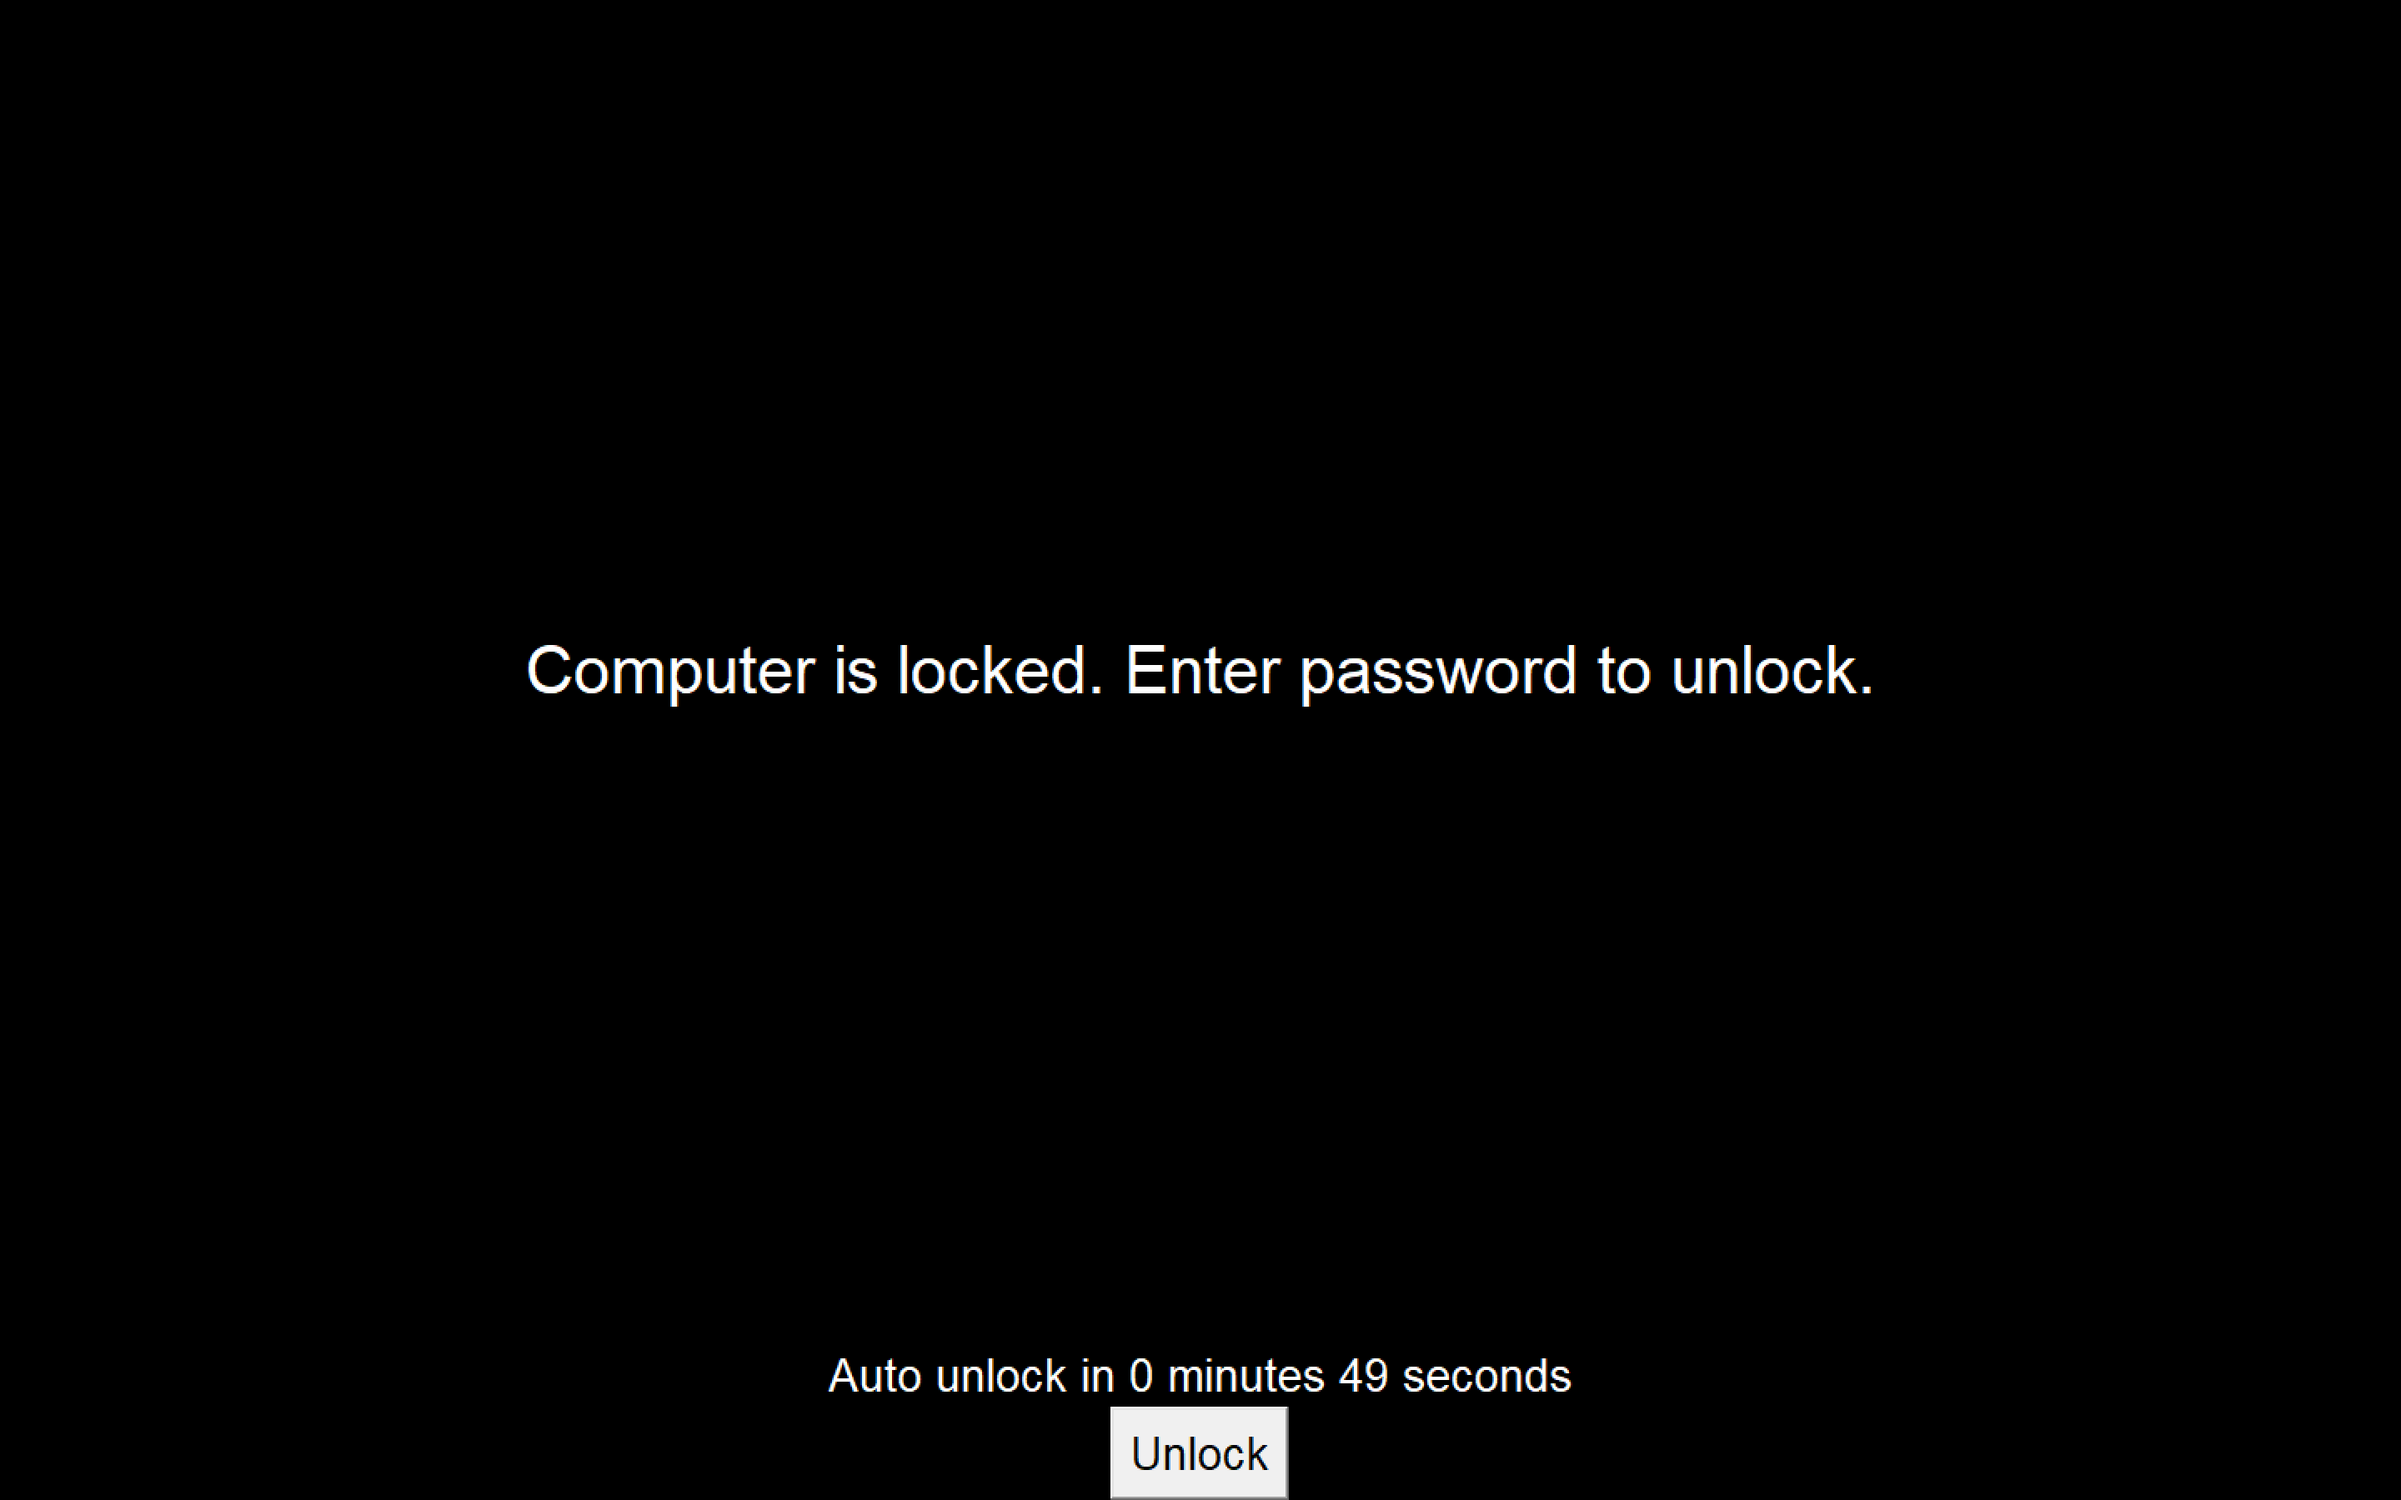
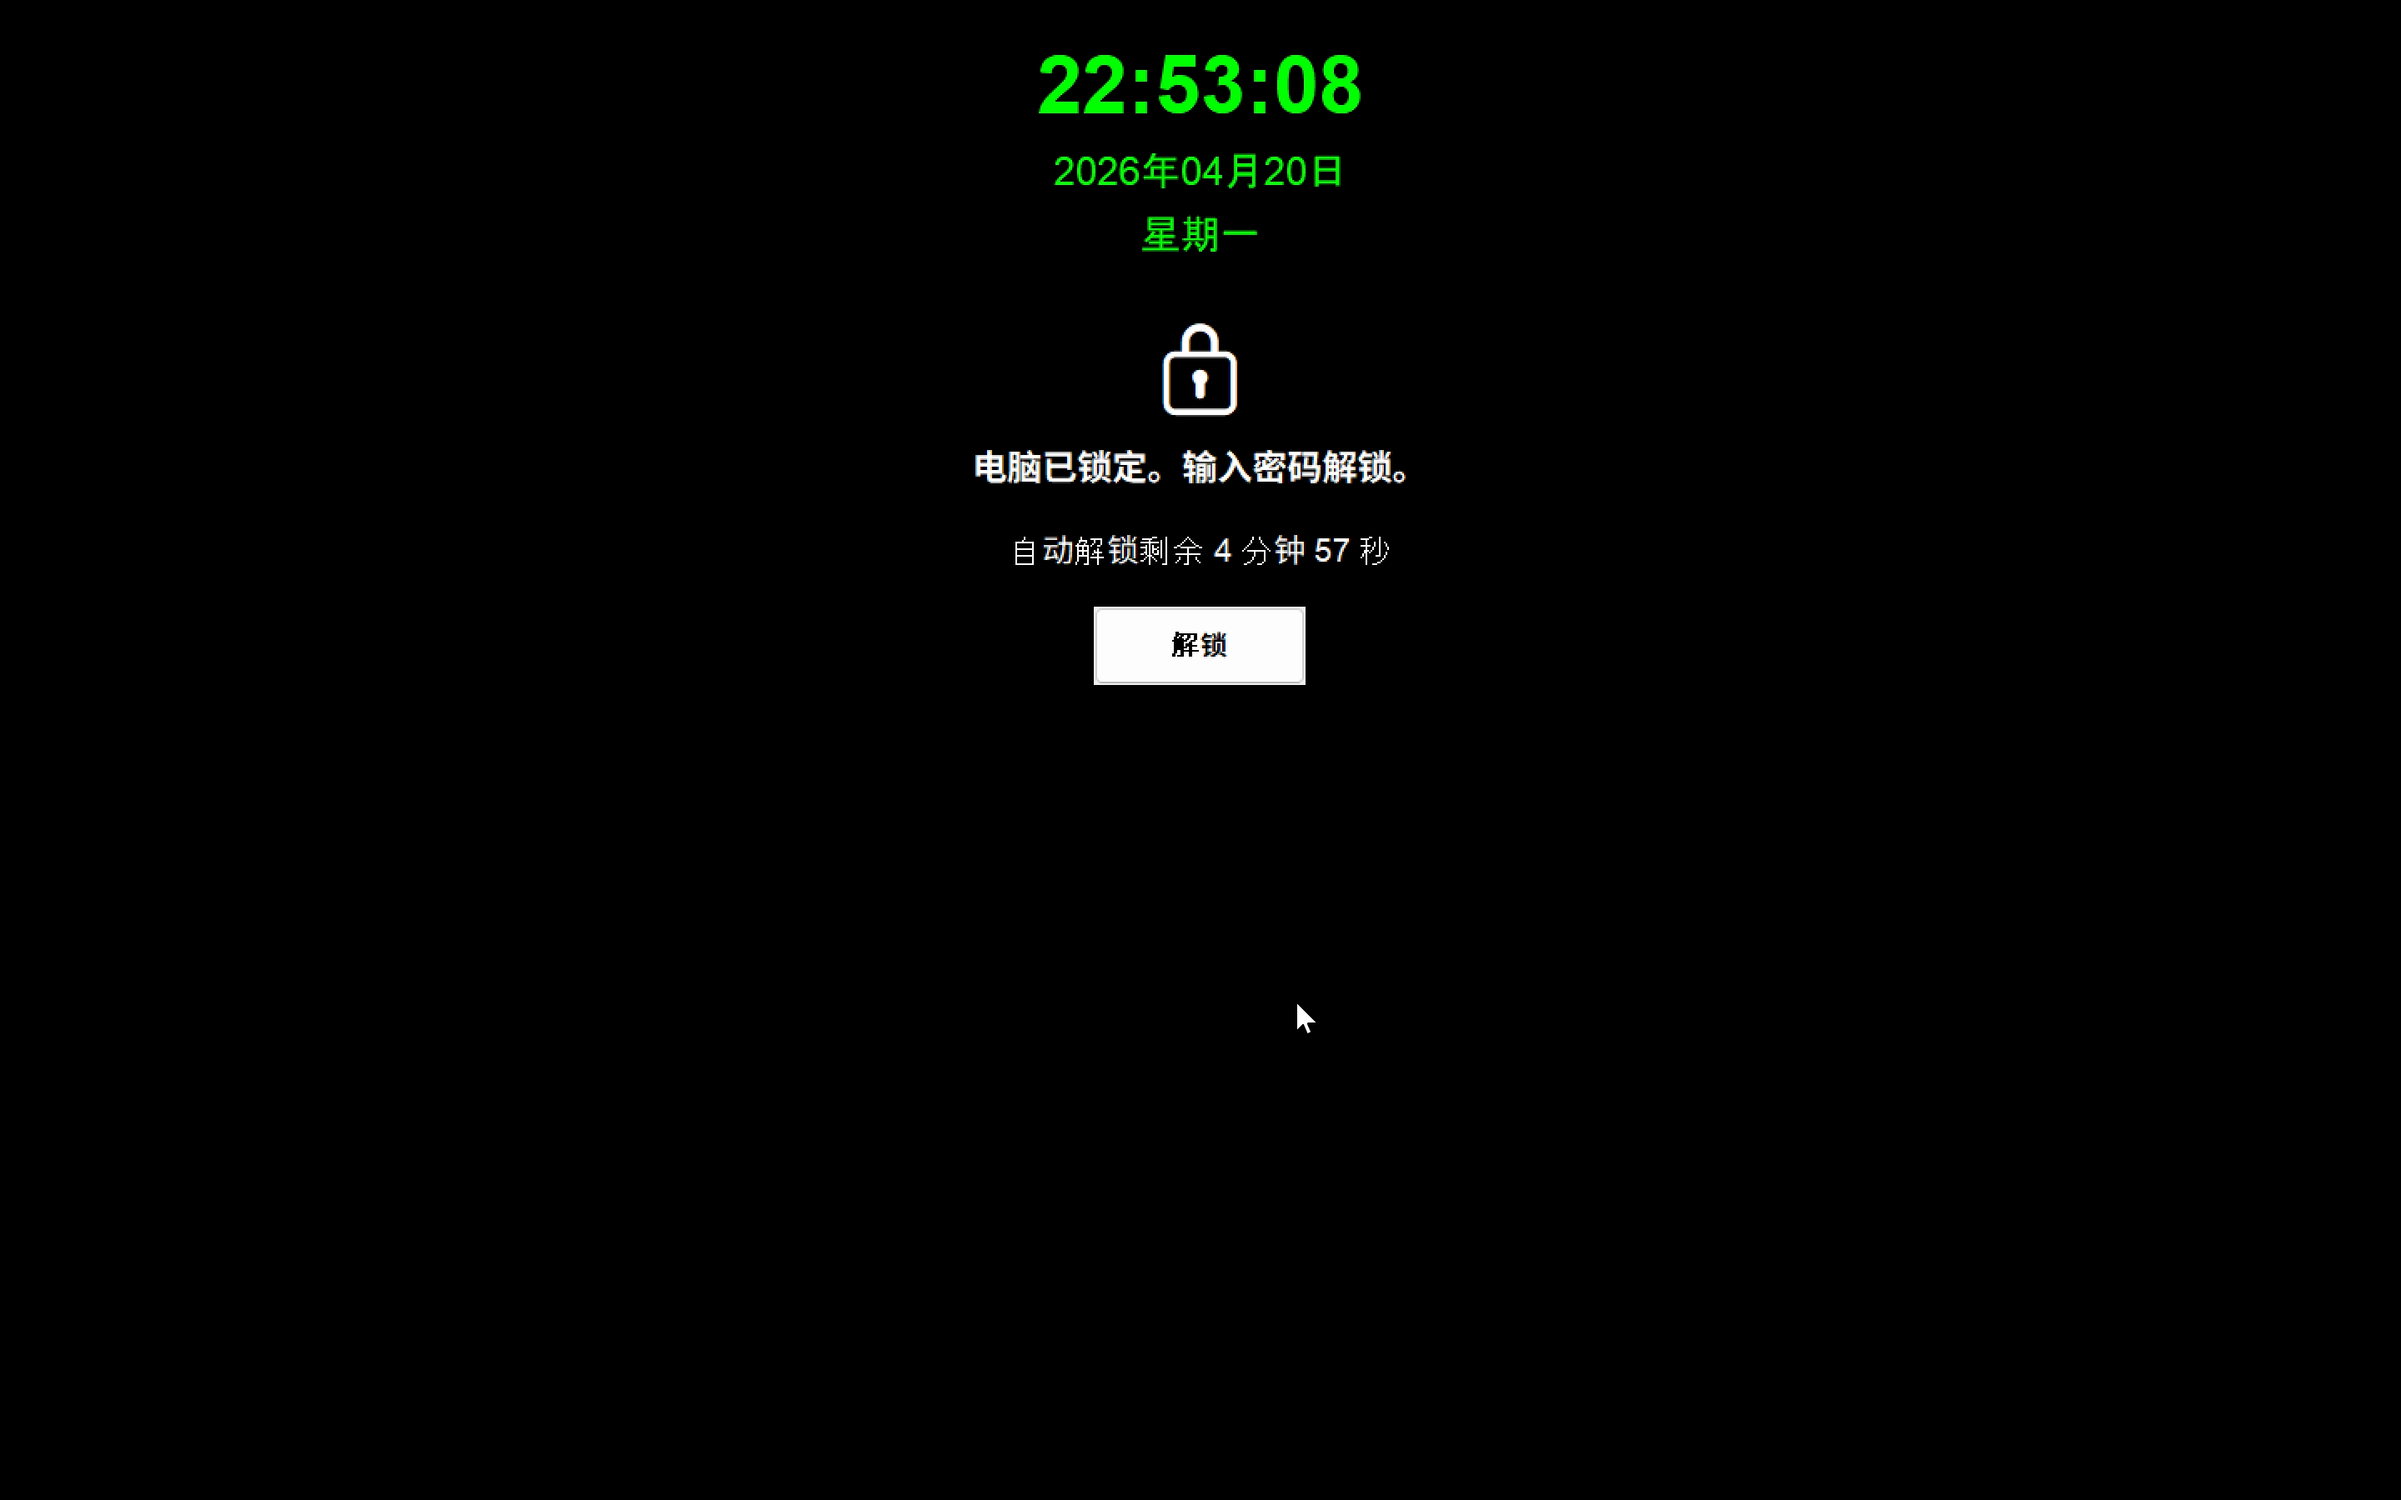
新增两个功能：锁屏显示时间和按enter输入密码

diff --git a/ComputerLock.py b/ComputerLock.py
@@ -25,7 +25,6 @@ def install_keyboard_block():
     keyboard.block_key('shift')
     keyboard.block_key('ctrl')
     keyboard.block_key('delete')
-    keyboard.block_key('enter')
 
 def uninstall_keyboard_block():
     if not HAS_KEYBOARD:
@@ -72,6 +71,8 @@ def ask_password(parent, title, prompt):
     def on_cancel():
         result[0] = None
         dialog.destroy()
+    entry.bind("<Return>", lambda e: on_ok())
+    entry.focus_set()
     frame = ttk.Frame(dialog)
     frame.pack(pady=10)
     ttk.Button(frame, text="确定", command=on_ok).pack(side=tk.LEFT, padx=5)
@@ -107,6 +108,26 @@ def lock_computer(duration, password):
     # 主框架（使用 tk.Frame 以便设置背景色）
     main_frame = tk.Frame(lock_window, bg="#000000", padx=20, pady=20)
     main_frame.pack(expand=True, fill='both')
+
+    week_days = ["星期一", "星期二", "星期三", "星期四", "星期五", "星期六", "星期日"]
+
+    time_label = tk.Label(main_frame, font=("Arial", 36, "bold"), fg="#00ff00", bg="#000000")
+    time_label.pack(pady=(0, 5))
+
+    date_label = tk.Label(main_frame, font=("Arial", 18), fg="#00ff00", bg="#000000")
+    date_label.pack(pady=(0, 5))
+
+    week_label = tk.Label(main_frame, font=("Arial", 18), fg="#00ff00", bg="#000000")
+    week_label.pack(pady=(0, 20))
+
+    def update_datetime():
+        now = datetime.now()
+        time_label.config(text=now.strftime("%H:%M:%S"))
+        date_label.config(text=now.strftime(f"{now.year}年%m月%d日"))
+        week_label.config(text=week_days[now.weekday()])
+        lock_window.after(1000, update_datetime)
+
+    update_datetime()
 
     # 锁图标（用文本模拟）
     lock_label = tk.Label(main_frame, text="🔒", font=("Arial", 48), bg="#000000", fg="#ffffff")
@@ -182,11 +203,19 @@ def parse_time(time_str):
     parts = time_str.split(":")
     return int(parts[0]) * 60 + int(parts[1])
 
-def monitor_activity(lock_duration, password, period1_start, period1_end, period2_start, period2_end):
+def monitor_activity():
     global is_locked, lock_request
 
     while not stop_event.is_set():
-        if check_lock_time(period1_start, period1_end, period2_start, period2_end) and not is_locked:
+        config = load_config()
+        p1_start = config.get("period1_start", "22:00")
+        p1_end = config.get("period1_end", "23:00")
+        p2_start = config.get("period2_start", "08:00")
+        p2_end = config.get("period2_end", "09:00")
+        lock_duration = config.get("lock_duration", 10) * 60
+        password = config.get("password", "")
+
+        if check_lock_time(p1_start, p1_end, p2_start, p2_end) and not is_locked:
             lock_request = (lock_duration, password)
             time.sleep(70)
         else:
@@ -223,7 +252,7 @@ def toggle_monitoring():
 
         if not is_monitoring:
             stop_event.clear()
-            monitor_thread = threading.Thread(target=monitor_activity, args=(lock_duration, pwd, p1_start, p1_end, p2_start, p2_end), daemon=True)
+            monitor_thread = threading.Thread(target=monitor_activity, daemon=True)
             monitor_thread.start()
             is_monitoring = True
             toggle_button.config(text="停止监控")
